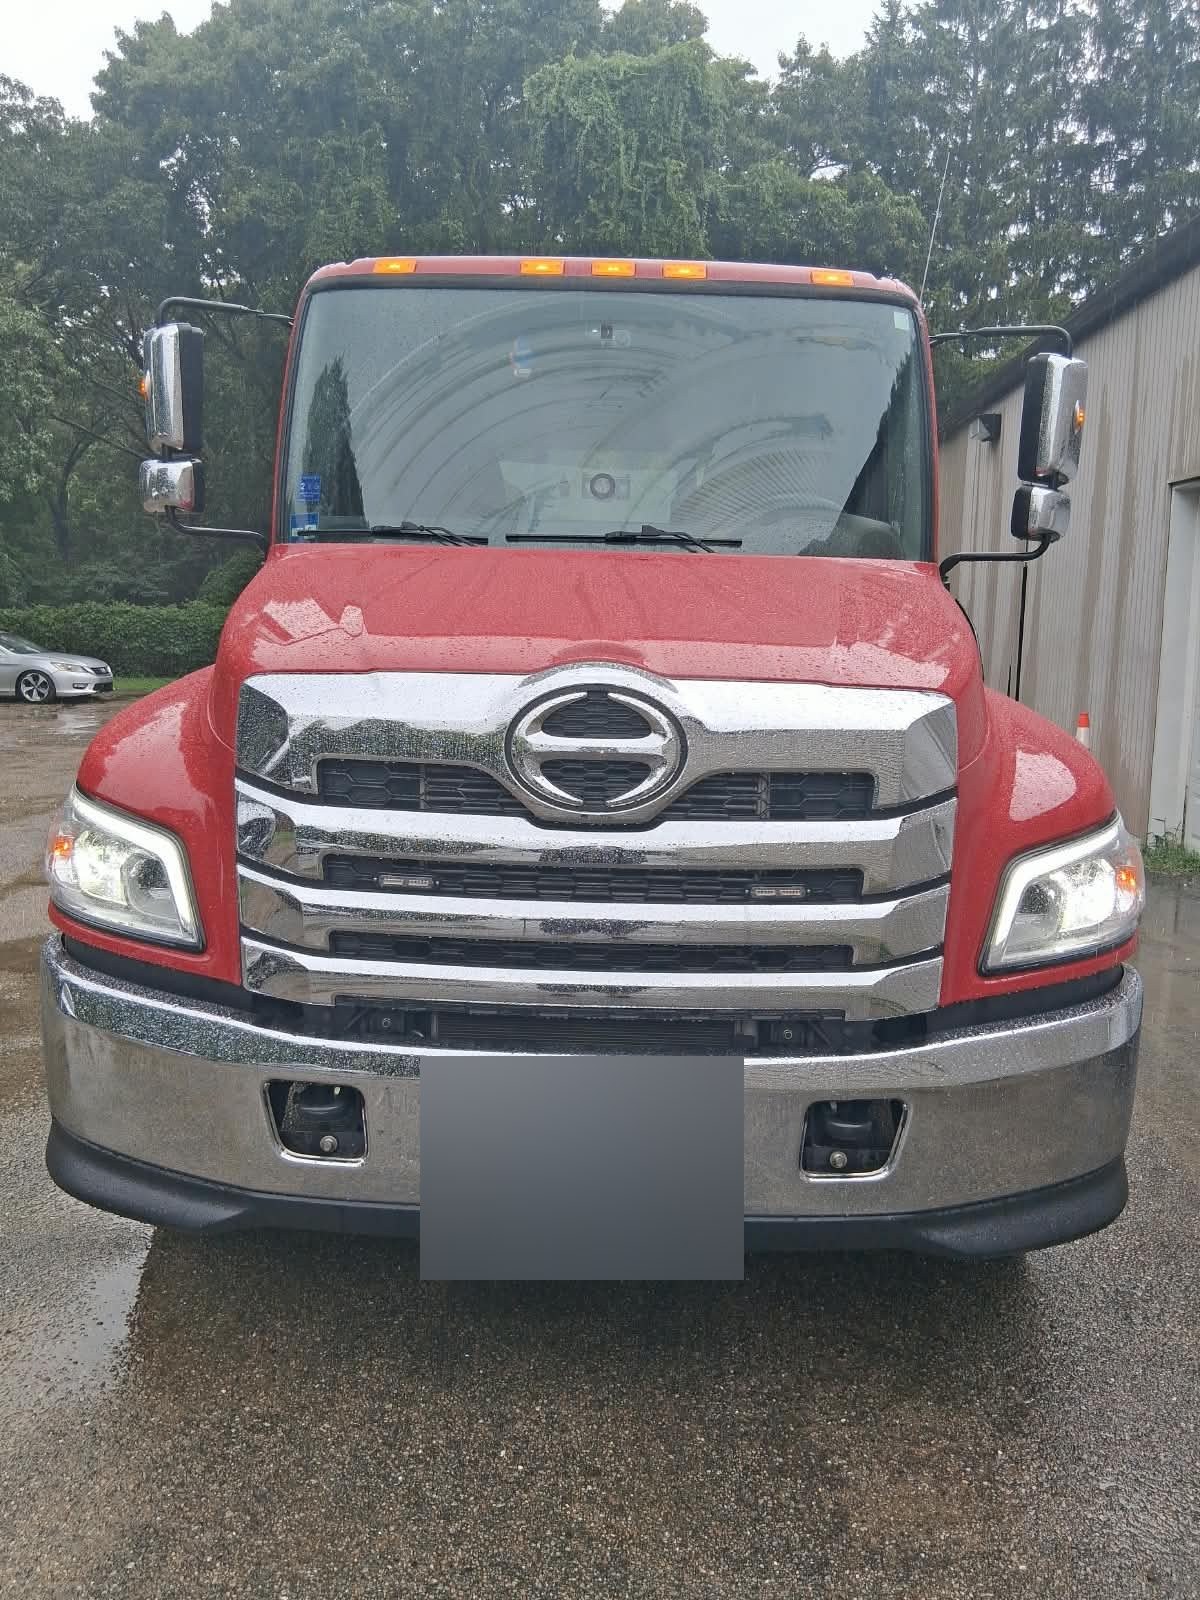
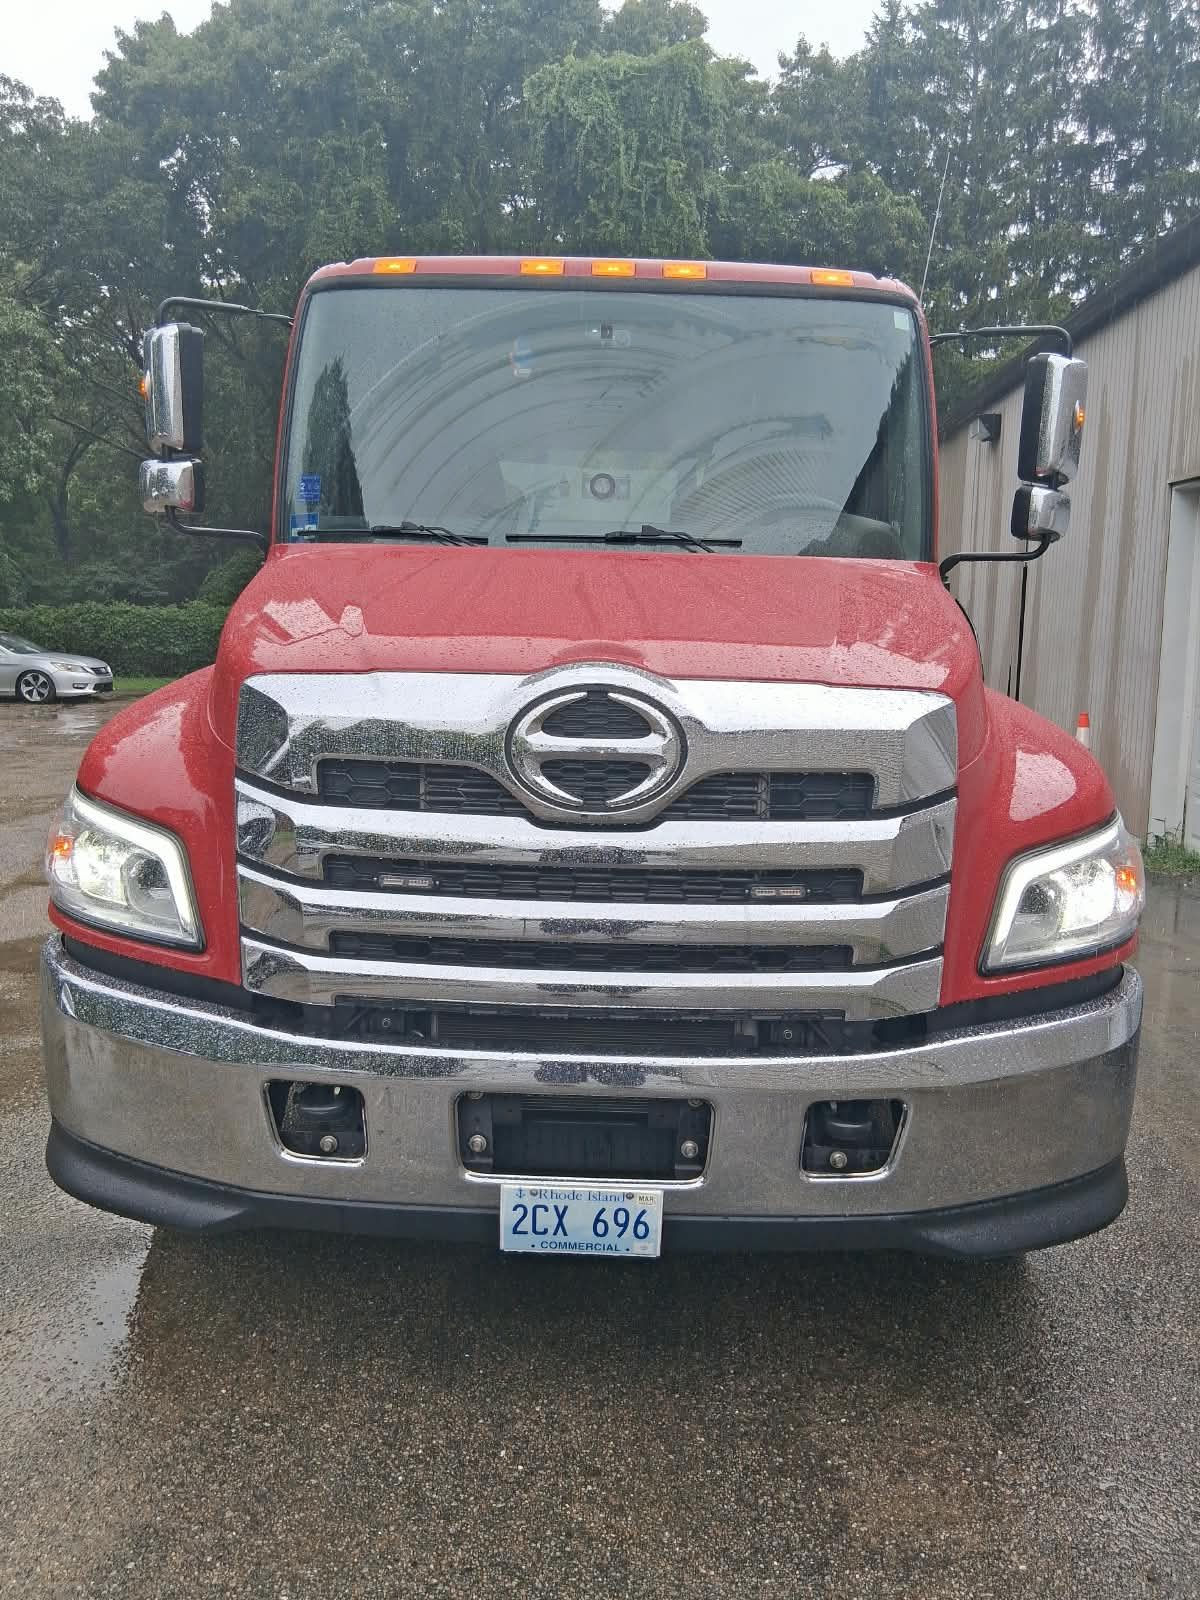
Unblur plates on our own trucks; swap About photo to flatbed delivery shot

Changed region(s): [[0.3392, 0.6562, 0.6167, 0.8125]]

diff --git a/index.html b/index.html
@@ -86,10 +86,10 @@
     <div class="about-layout">
       <div class="about-photo">
         <picture>
-          <source srcset="assets/images/fleet-family.webp" type="image/webp">
-          <img src="assets/images/fleet-family.jpg" alt="Centri Auto Towing & Mechanical's fleet of tow trucks parked together" loading="lazy" width="1599" height="899">
+          <source srcset="assets/images/job-7.webp" type="image/webp">
+          <img src="assets/images/job-7.jpg" alt="Centri Auto flatbed truck delivering a sedan in a Rhode Island driveway" loading="lazy" width="840" height="567">
         </picture>
-        <span class="tag">Our Fleet</span>
+        <span class="tag">Flatbed Delivery</span>
       </div>
       <div>
         <span class="eyebrow">Why Rhode Island Trusts Us</span>
